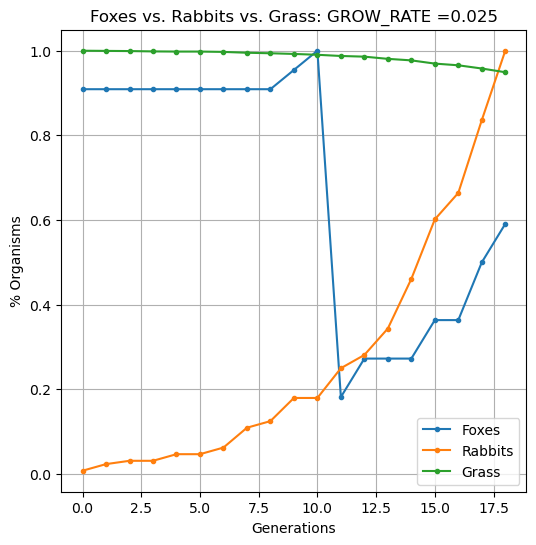
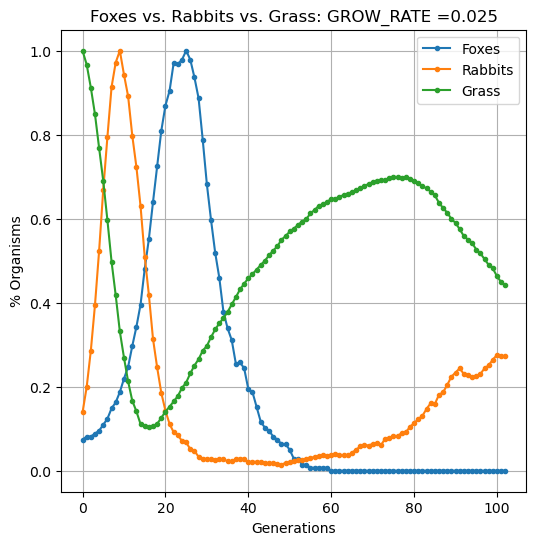
cleaning

diff --git a/classField.py b/classField.py
@@ -1,12 +1,14 @@
-# import necessary libraries
+"""
+Jocelyn Ju, Ceara Zhang
+DS 3500 / Homework 5
+Created April 10, 2023
+Updated April 15, 2023
+"""
+
 import random as rnd
 import matplotlib.pyplot as plt
-import matplotlib.animation as animation
 import numpy as np
-import copy
-import seaborn as sns
-import argparse as ap
-from matplotlib import colors
+
 class Field:
     """ A field is a patch of grass with 0 or more rabbits and foxes
      roaming around in search of food """
@@ -42,73 +44,20 @@ class Field:
         for r in self.animals:
             r.move()
 
-    # def eat(self):
-    #     """ Animals eat (if they find grass where they are) """
-    #     for animal in self.animals:
-    #         self.field[animal.x, animal.y] = animal.id
-    #
-    #         if self.field[animal.x, animal.y] in animal.eats: # rabbit eating grass
-    #             animal.eat(self.field[animal.x, animal.y])
-    #             self.field[animal.x, animal.y] = 0
-    #         # check pixel of field's current value
-    #         if self.field[animal.x, animal.y] == animal.eats:
-    #             # animal.eat(1)
-    #             animal.eat(self.field[animal.x, animal.y])
-    #             self.field[animal.x, animal.y] = 0
-
-    # def eat(self):
-    #     """ Animals eat (if they find grass where they are) """
-    #
-    #     for animal in self.animals:
-    #         # check pixel of field's current value
-    #         # if it's edible, eat it and revert the field value to 0
-    #         if self.field[animal.x, animal.y] in animal.eats:
-    #             animal.eat(self.field[animal.x, animal.y])
-    #             self.field[animal.x, animal.y] = 0
-    #         # if it is not, leave the field value as is
-    #         elif self.field[animal.x, animal.y] > animal.id:
-    #             self.field[animal.x, animal.y] = self.field[animal.x, animal.y]
-
-    # def eat(self):
-    #     """ Animals eat (if they find food where they are) """
-    #     for animal in self.animals:
-    #         # check pixel of field's current value
-    #         if self.field[animal.x, animal.y] == animal.eats:
-    #             if self.field[animal.x, animal.y] == 2:
-    #                 self.remove_rabbit(animal.x, animal.y)
-    #             elif self.field[animal.x, animal.y] == 3:
-    #                 self.remove_fox(animal.x, animal.y)
-    #             animal.eat(1)
-
     def eat(self):
         """ Animals eat (if they find grass where they are) """
         for animal in self.animals:
             for other in self.animals:
+                # if other animal is prey, eat
                 if other != animal and other.id in animal.eats and animal.x == other.x and animal.y == other.y:
-                    # animal can eat other_animal
-                    #print(f"Animal {animal.id} found food at ({animal.x}, {animal.y})")
                     animal.eat(other.id)
-                    self.field[animal.x][animal.y] = 1
-                    print("fox eating rabbit")
-            # if self.field[animal.x][animal.y] in animal.eats:
-            #     if animal.id == 2:
-            #         animal.eat(self.field[animal.x][animal.y])
-            #         self.field[animal.x][animal.y] = 0
-
+                    #self.field[animal.x][animal.y] = animal.id
             # if the thing at the current position is what the animal
             # eats, then animal will eat the thing and the current
             # position becomes whatever the animal is
             if self.field[animal.x][animal.y] in animal.eats:
-                #print(f"Animal {animal.id} found food at ({animal.x}, {animal.y})")
-                #
-                # if animal.id == 3:
-                #     animal.eat(self.field[animal.x][animal.y])
-                #     self.field[animal.x][animal.y] = animal.id
-                #     print(f"Fox {animal.id} is eating Rabbit")
-                # else:
                 animal.eat(self.field[animal.x][animal.y])
                 self.field[animal.x][animal.y] = 0
-                # print(f"Bunny {animal.id} is eating grass")
 
     def survive(self):
         """ Animals who eat may live to eat another day, depending on their cycle survivals """

diff --git a/main.py b/main.py
@@ -1,16 +1,17 @@
-# import necessary libraries
-import random as rnd
+"""
+Jocelyn Ju, Ceara Zhang
+DS 3500 / Homework 5
+Created April 10, 2023
+Updated April 15, 2023
+"""
+
 import matplotlib.pyplot as plt
 import matplotlib.animation as animation
 import numpy as np
-import copy
-import seaborn as sns
-import argparse as ap
 from matplotlib import colors
 from classAnimal import Animal
 from classField import Field
 
-# establish necessary constants
 fsize = 50
 OFFSPRING = 2  # Max offspring when a rabbit reproduces
 grass_rate = 0.025  # Probability that grass grows back at any location in the next season.
@@ -27,7 +28,7 @@ def animate(i, field, im):
         im (image) an updated image
     """
     # stopping criterion of 1000 iterations
-    while i <= 100:
+    while i <= 500:
         field.generation()
         # print("AFTER: ", i, np.sum(field.field), len(field.nfoxes))
         im.set_array(field.field)
@@ -88,21 +89,8 @@ def main():
     # Create the ecosystem
     field = Field(fsize, grass_rate)
 
-    # # add rabbit
-    # for _ in range(5):
-    #     field.add_animal(Animal(2, 3, 1, 2, (1,), fsize))
-    #
-    # # add fox
-    # for _ in range(10):
-    #     field.add_animal(Animal(3, 1, 2, 75, (2,), fsize))
-    #
-    #     #(id, max_offspring, speed, starve, eats, fsize):
-
-    # # add foxes
-    # for _ in range(1):
-    #     fox = Animal(3, 1, 2, 15, (2, ), fsize)
     # add rabbits
-    for _ in range(1):
+    for _ in range(100):
         rabbit = Animal(2, 2, 1, 1, (1,), fsize)
         field.add_animal(rabbit)
 

diff --git a/classAnimal.py b/classAnimal.py
@@ -1,15 +1,14 @@
-# import necessary libraries
+"""
+Jocelyn Ju, Ceara Zhang
+DS 3500 / Homework 5
+Created April 10, 2023
+Updated April 15, 2023
+"""
+
 import random as rnd
-import matplotlib.pyplot as plt
-import matplotlib.animation as animation
-import numpy as np
 import copy
-import seaborn as sns
-import argparse as ap
-from matplotlib import colors
 
 
-# establish necessary constants
 fsize = 50
 OFFSPRING = 2  # Max offspring when a rabbit reproduces
 grass_rate = 0.025  # Probability that grass grows back at any location in the next season.
@@ -55,7 +54,6 @@ class Animal:
         """Feed the animal, taking in the amount"""
         self.eaten += amount
 
-
     def move(self):
         """ Move up, down, left, right randomly """
         max_move = self.speed + 1
@@ -74,12 +72,15 @@ class Animal:
         """ Returns whether the animal will survive that cycle
         taking into account the number of cycles the animal can
         go without starving """
-        # if the animal ate that cycle, reset counter to 0
+        # if the animal ate that cycle,
+        # reset counter to 0
         if self.eaten > 0:
             self.cycle = 0
             return True
 
-        # if the animal has gone too many cycles without eating, return "False"
+        # ele animal hasn't eaten, so
+        # if the animal has gone too many cycles
+        # without eating, return "False" aka died
         else:
             if self.cycle <= self.starve:
                 self.cycle += 1
